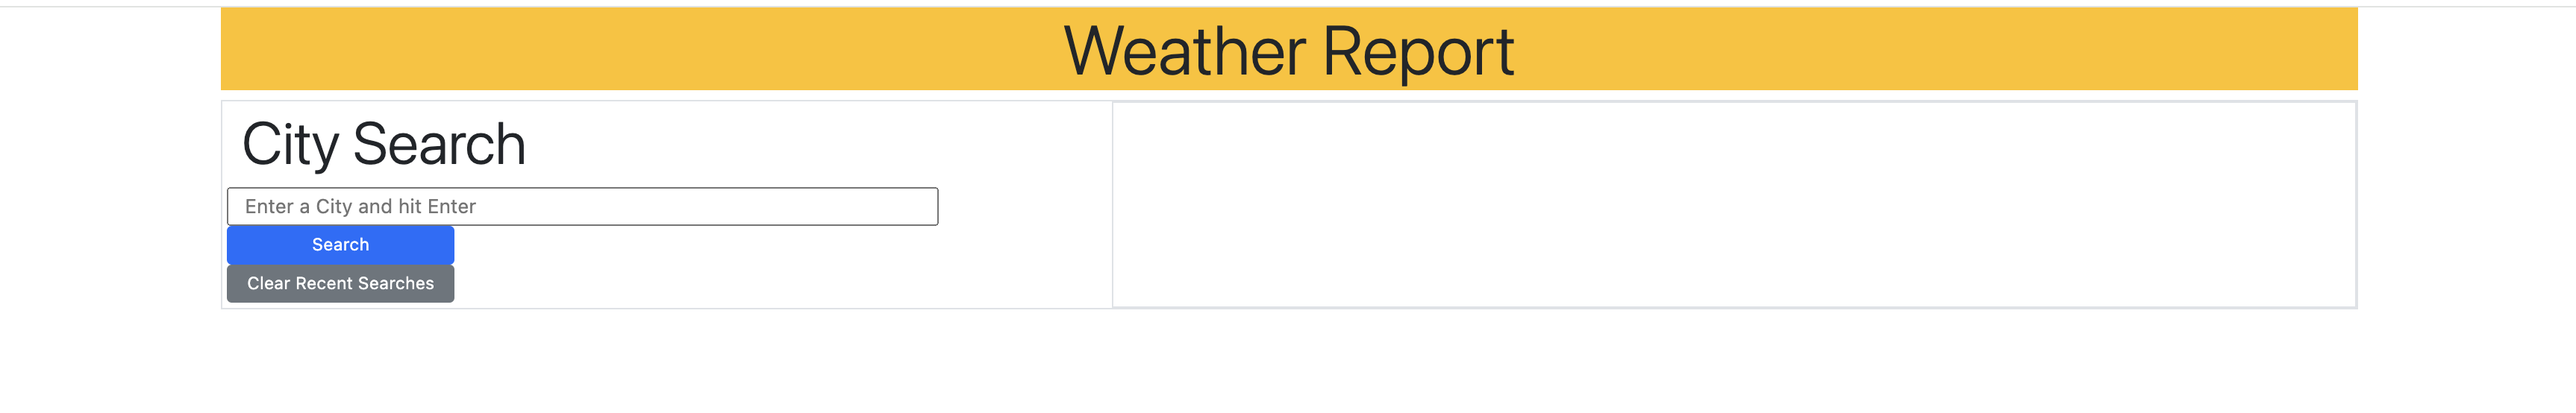
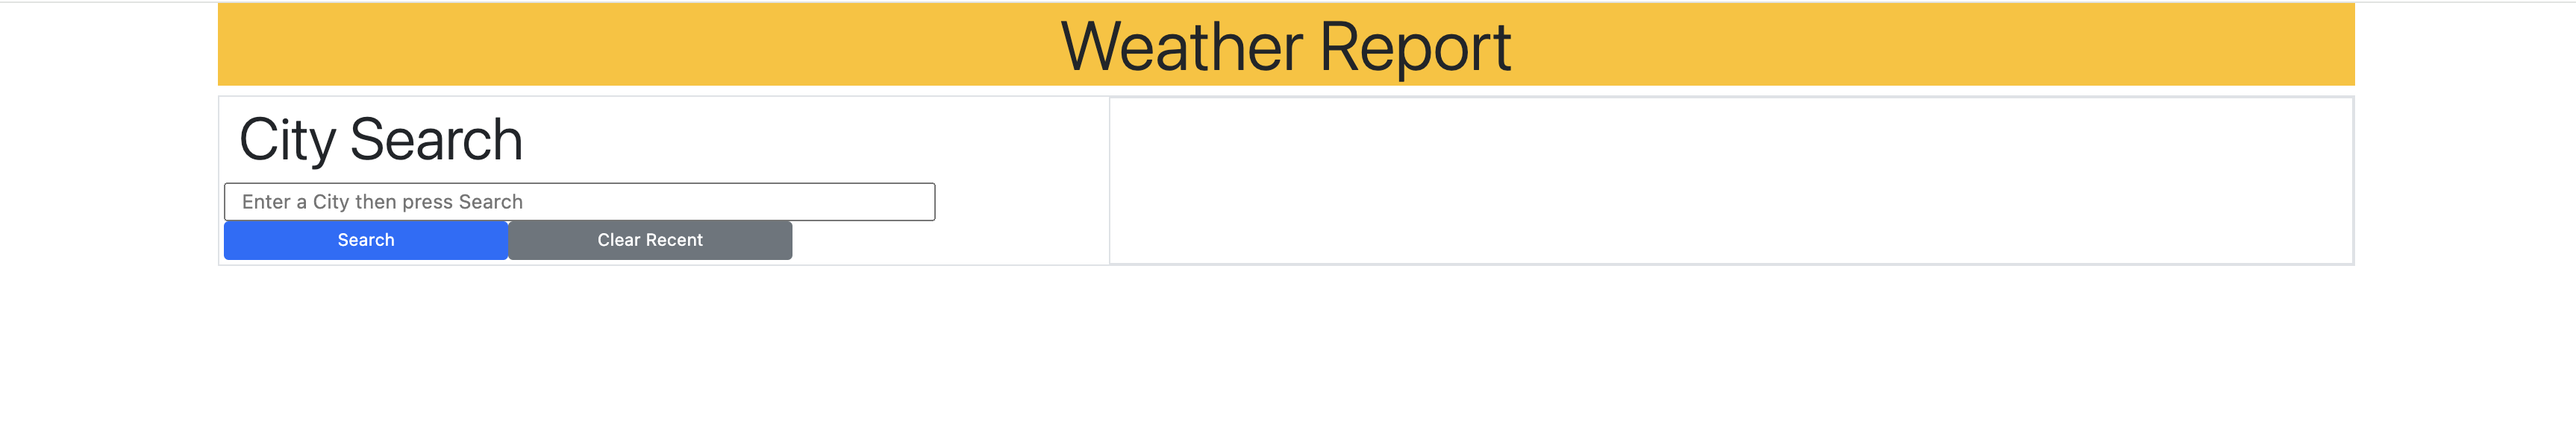
cleaned up css and added user input logic

Changed region(s): [[0.0, 0.0, 1.0, 0.2762], [0.062, 0.2762, 0.9299, 0.7671], [0.434, 0.583, 0.9299, 0.6137]]

diff --git a/assets/js/script.js b/assets/js/script.js
@@ -22,7 +22,7 @@ searchBtn.on('click', function () {
         return;
     } else {
         // Assign user input to variable
-        var cityName = userInput.val().trim(); // Use .trim() to remove any leading/trailing whitespace
+        var cityName = userInput.val().trim().toLowerCase().split(' ').map(word => word.charAt(0).toUpperCase() + word.slice(1)).join(' ');
 
         // Search weather
         getWeather(cityName);
@@ -98,6 +98,7 @@ function getWeather(cityName) {
         url: requestWeatherUrl,
         method: 'GET',
         success: function (response) {
+            console.log(response);
             cityValid = true;
             // Assuming the request was successful and data is retrieved
             // writes to object for weather data
@@ -112,7 +113,7 @@ function getWeather(cityName) {
 
             // Check if the city is already in the userCities array and if it's a valid city
             if (!userCities.includes(cityName) && cityValid) {
-                console.log(cityValid)
+                // console.log(cityValid)
                 userCities.push(cityName); // Add city to array if not already present
                 storeData(userCities);
                 displayUserCities();
@@ -136,7 +137,7 @@ function getWeatherForecast(cityName) {
         url: requestWeatherForecastUrl,
         method: 'GET',
         success: function (response) {
-            console.log(response);
+
             // Assuming the request was successful and data is retrieved
             for (var i = 4; i < response.list.length; i += 8) { // Adjusted to loop through each day for noon forecast
                 var forecast = {
@@ -165,12 +166,16 @@ function showCurrentWeather(cityName) {
 
     // Set the city name text
     currentCity.append(cityName);
+    var currentDate = $('<h3>');
+    currentDate.text('Now');
+    currentDate.addClass('display-5 ml-5 col now-text');
 
     // Append the weather icon image to the currentCity
     // Note: Make sure you're using backticks (`) for template literals to insert variables
     var weatherIconUrl = `http://openweathermap.org/img/wn/${weather.icon}.png`;
-    var weatherIconImg = $('<img>').attr('src', weatherIconUrl).attr('alt', 'Weather icon').css('height', '10rem');
+    var weatherIconImg = $('<img>').attr('src', weatherIconUrl).attr('alt', 'Weather icon').addClass('weather-icon');
     currentCity.append(weatherIconImg);
+    currentCity.append(currentDate);
 
     // Create and append list items for weather details with margin class
     var tempLi = $('<li>').text(`Temperature: ${weather.temp} °F`).addClass('m-3');
@@ -178,7 +183,7 @@ function showCurrentWeather(cityName) {
     var windLi = $('<li>').text(`Wind Speed: ${weather.wind_speed} MPH`).addClass('m-3');
 
     // Append the list items to the UL element
-    currentWeatherListEl.append(tempLi, humidityLi, windLi);
+    currentWeatherListEl.addClass('search-list ml-0').append(tempLi, humidityLi, windLi);
 
     // Append the UL element to the currentWeatherEl container
     currentWeatherEl.append(currentWeatherListEl);

diff --git a/assets/css/style.css b/assets/css/style.css
@@ -1,13 +1,22 @@
-#search-list {
+
+/* removes bullet points */
+.search-list {
     list-style: none;
 }
 
+.now-text {
+    margin-left: 40px;
+}
+
+/* recent searches font size */
 #recent {
     font-size: 20px;
 }
 
+/* style for current weather icon */
 .weather-icon {
-    height: 5rem;
+    height: 8rem;
+    width: 9rem;
 }
 
 .weather-icon-card {

diff --git a/index.html b/index.html
@@ -28,7 +28,7 @@
                         </div>
                     </section>
                     <div id="city-buttons" class="row">
-                        <div id="search-list" class="m-0">
+                        <div id="search-list" class="m-0 search-list">
 
                         </div>
 
